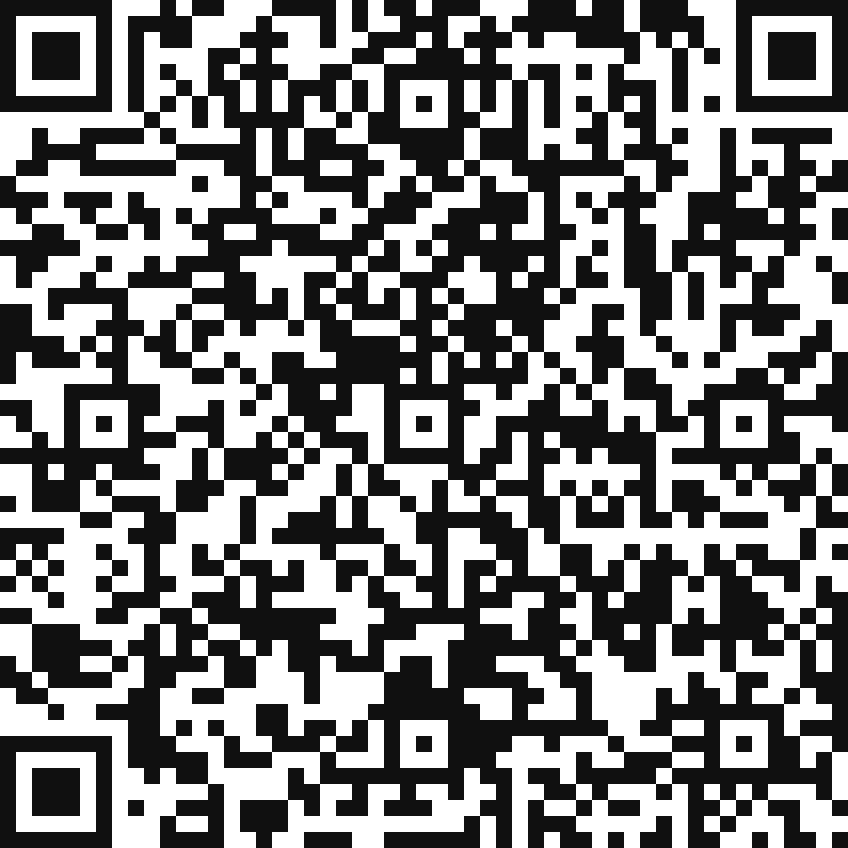
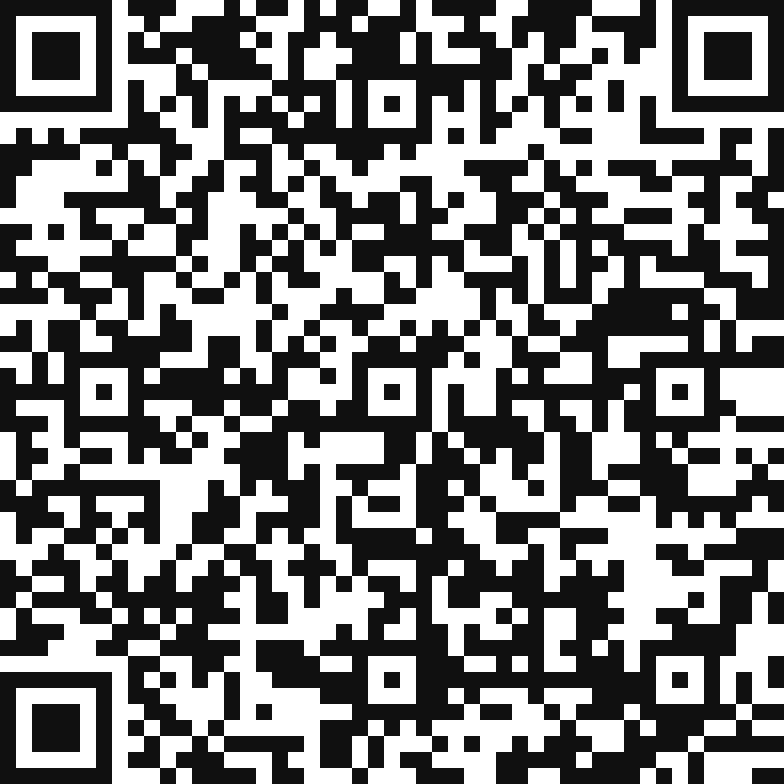
feat(website): 收敛下载入口到 Hero 与下载区，更新社群二维码
导航栏的下载按钮与 Hero、下载区指向同一产物，三处各写一遍版本号容易漏改；
删掉导航入口后只剩两处，下载链接的统一注入逻辑也随之少一个分支。社群二维码
换成新图，图片尺寸随源图调整。

- 移除 .nav__download 按钮及其样式、初始化分支与对应测试断言
- 更新 qr-wechat.png、wechat-group.png、wechat-group-light.png

diff --git a/website/test/download-entry.test.ts b/website/test/download-entry.test.ts
@@ -35,7 +35,6 @@ function downloadEntry() {
 		primary: document.getElementById("dlPrimary") as HTMLAnchorElement,
 		primaryText: document.getElementById("dlPrimaryText"),
 		primaryVersion: document.getElementById("dlPrimaryVersion"),
-		nav: document.querySelector<HTMLAnchorElement>(".nav__download"),
 		hero: document.querySelector<HTMLAnchorElement>(".hero .btn--primary.btn--lg"),
 	};
 }
@@ -45,7 +44,7 @@ beforeEach(() => {
 });
 
 describe("官网下载入口", () => {
-	it("Apple 芯片 Mac 先按 arm64 落地，导航与 Hero 同步", async () => {
+	it("Apple 芯片 Mac 先按 arm64 落地，Hero 与下载区同步", async () => {
 		setDevice({ userAgent: MAC_UA, architecture: "arm" });
 		const entry = downloadEntry();
 		initDownloadLinks();
@@ -55,7 +54,6 @@ describe("官网下载入口", () => {
 		expect(entry.primaryVersion?.textContent).toBe(`v${VERSION} · DMG`);
 		await vi.waitFor(() => expect(entry.primaryText?.textContent).toBe("MAC ARM64 (APPLE SILICON)"));
 		expect(entry.primaryVersion?.textContent).toBe(`v${VERSION} · DMG`);
-		expect(entry.nav?.href).toBe(entry.primary.href);
 		expect(entry.hero?.href).toBe(entry.primary.href);
 	});
 
@@ -66,7 +64,6 @@ describe("官网下载入口", () => {
 
 		await vi.waitFor(() => expect(entry.primary.href).toBe(`${BASE}/Astravia-${VERSION}.dmg`));
 		expect(entry.primaryText?.textContent).toBe("MAC X64 (INTEL)");
-		expect(entry.nav?.href).toBe(entry.primary.href);
 		expect(entry.hero?.href).toBe(entry.primary.href);
 	});
 

diff --git a/website/src/download-links.ts b/website/src/download-links.ts
@@ -33,9 +33,8 @@ export function initDownloadPlatformHighlight() {
 	});
 }
 
-/* 下载链接：按系统与芯片选择产物，4 处同步更新（nav、hero CTA、下载区 primary、版本标签） */
+/* 下载链接：按系统与芯片选择产物，3 处同步更新（hero CTA、下载区 primary、版本标签） */
 export function initDownloadLinks() {
-	const navDownload = document.querySelector<HTMLAnchorElement>(".nav__download");
 	const heroDownload = document.querySelector<HTMLAnchorElement>(".hero .btn--primary.btn--lg");
 	const dlPrimary = document.getElementById("dlPrimary") as HTMLAnchorElement | null;
 	const dlPrimaryText = document.getElementById("dlPrimaryText");
@@ -48,7 +47,6 @@ export function initDownloadLinks() {
 		if (dlPrimary) dlPrimary.href = target.href;
 		if (dlPrimaryText) dlPrimaryText.textContent = target.label;
 		if (dlPrimaryVersion) dlPrimaryVersion.textContent = target.versionLabel;
-		if (navDownload) navDownload.href = target.href;
 		if (heroDownload) heroDownload.href = target.href;
 	}
 

diff --git a/website/index.html b/website/index.html
@@ -119,7 +119,6 @@
 					</svg>
 					<span>GitHub</span>
 				</a>
-				<a class="btn btn--primary nav__download" href="https://dl.astravia.dev/app/v0.5.86/Astravia-0.5.86-arm64.dmg" target="_blank" rel="noopener">下载</a>
 				<button class="nav__toggle" id="navToggle" type="button" aria-expanded="false" aria-controls="navLinks" aria-label="打开菜单">
 					<span></span><span></span><span></span>
 				</button>
@@ -1081,7 +1080,7 @@
 							aria-label="查看微信群官方海报"
 						>
 							<span class="qr-card__plate">
-								<img src="/community/qr-wechat.png" width="848" height="848" alt="微信官方群二维码" loading="lazy" decoding="async" />
+								<img src="/community/qr-wechat.png" width="784" height="784" alt="微信官方群二维码" loading="lazy" decoding="async" />
 							</span>
 							<span class="qr-card__label"><i class="qr-card__dot qr-card__dot--wechat" aria-hidden="true"></i>微信群</span>
 						</a>

diff --git a/website/test/download-dom-contract.test.ts b/website/test/download-dom-contract.test.ts
@@ -22,8 +22,8 @@ describe("下载入口的 DOM 契约", () => {
 		}
 	});
 
-	it("导航与 Hero 的下载按钮选择器各自唯一命中", () => {
-		expect(countClassMatches(indexHtml, ["nav__download"])).toBe(1);
+	it("导航不再提供下载按钮，Hero 下载按钮选择器唯一命中", () => {
+		expect(countClassMatches(indexHtml, ["nav__download"])).toBe(0);
 		expect(countClassMatches(indexHtml, ["btn--primary", "btn--lg"])).toBe(1);
 	});
 

diff --git a/website/src/style.css b/website/src/style.css
@@ -421,11 +421,6 @@ code {
 	border-color: var(--line);
 }
 
-.nav__download {
-	padding: 7px 14px;
-	font-size: 13.5px;
-}
-
 .nav__toggle {
 	display: none;
 	background: none;
